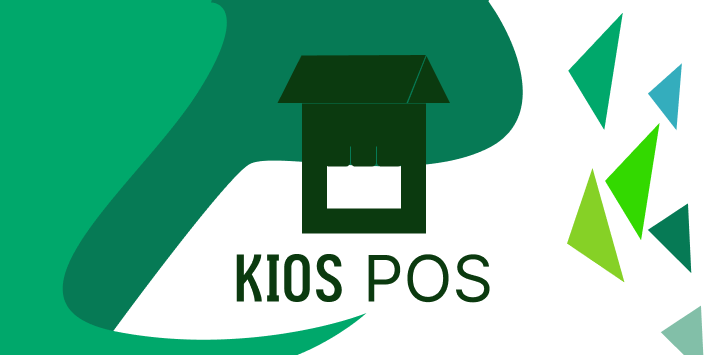
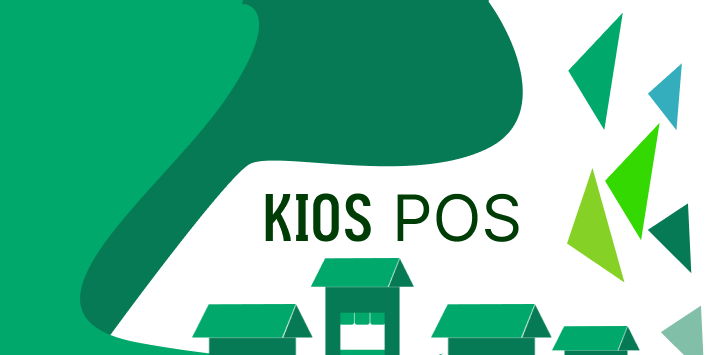
Fix 1: splash window transparan terpisah, loading persentase, dan redesain login 2 kolom

Changed region(s): [[0.1212, 0.7127, 0.8788, 1.0], [0.3636, 0.1549, 0.7273, 0.6817], [0.0606, 0.0, 0.3636, 0.8986]]

diff --git a/pos-app/src/routes/splash/+page.svelte b/pos-app/src/routes/splash/+page.svelte
@@ -1,0 +1,95 @@
+<script lang="ts">
+	import { onMount } from 'svelte';
+
+	const DURASI = 5000;
+	let persen = $state(0);
+
+	onMount(() => {
+		const mulai = Date.now();
+		const interval = setInterval(() => {
+			persen = Math.min(100, Math.round(((Date.now() - mulai) / DURASI) * 100));
+		}, 50);
+
+		const timer = setTimeout(async () => {
+			clearInterval(interval);
+			persen = 100;
+			try {
+				const { getCurrentWindow, getAllWindows } = await import('@tauri-apps/api/window');
+				const windows = await getAllWindows();
+				const main = windows.find((w) => w.label === 'main');
+				if (main) {
+					await main.show();
+					await main.setFocus();
+				}
+				await getCurrentWindow().close();
+			} catch (err) {
+				console.error('Gagal berpindah dari splash ke window utama:', err);
+			}
+		}, DURASI);
+
+		return () => {
+			clearInterval(interval);
+			clearTimeout(timer);
+		};
+	});
+</script>
+
+<div class="splash">
+	<img src="/img/splash.png" alt="Kios Sumur Yacob" />
+	<div class="splash-loading">
+		<div class="splash-track">
+			<div class="splash-bar" style="width: {persen}%"></div>
+		</div>
+		<span class="splash-percent">{persen}%</span>
+	</div>
+</div>
+
+<style>
+	:global(html body) {
+		background: transparent !important;
+	}
+
+	.splash {
+		position: fixed;
+		inset: 0;
+		display: flex;
+		flex-direction: column;
+		align-items: center;
+	}
+
+	.splash img {
+		width: 100%;
+		object-fit: contain;
+	}
+
+	.splash-loading {
+		flex: 1;
+		display: flex;
+		align-items: center;
+		justify-content: center;
+		gap: 0.5rem;
+	}
+
+	.splash-track {
+		width: 180px;
+		height: 4px;
+		border-radius: 999px;
+		background: rgba(13, 148, 87, 0.2);
+		overflow: hidden;
+	}
+
+	.splash-bar {
+		height: 100%;
+		border-radius: 999px;
+		background: #0d9457;
+		transition: width 0.1s linear;
+	}
+
+	.splash-percent {
+		min-width: 2.5em;
+		font-family: 'Inter', 'Segoe UI', system-ui, -apple-system, sans-serif;
+		font-size: 0.75rem;
+		font-variant-numeric: tabular-nums;
+		color: #0d9457;
+	}
+</style>

diff --git a/pos-app/src/routes/+page.svelte b/pos-app/src/routes/+page.svelte
@@ -53,8 +53,10 @@
 </script>
 
 <div class="login-page">
+	<div class="login-panel" style="background-image: url('/img/login-panel.png')"></div>
+
+	<div class="login-right">
 	<form class="card login-box" onsubmit={login} autocomplete="off">
-		<img class="logo" src="/img/logo-login.png" alt="Kios Sumur Yacob" />
 		<p class="subtitle">Masuk untuk mulai transaksi</p>
 
 		<label for="username">Username</label>
@@ -109,16 +111,31 @@
 
 		<button type="submit" class="primary" disabled={loading}>{loading ? 'Memeriksa...' : 'Masuk'}</button>
 	</form>
+	</div>
 </div>
 
 <style>
 	.login-page {
 		min-height: 100vh;
 		display: flex;
+	}
+
+	.login-panel {
+		flex: 1;
+		min-width: 0;
+		background-size: cover;
+		background-position: center;
+		background-repeat: no-repeat;
+	}
+
+	.login-right {
+		flex: 1;
+		min-width: 0;
+		display: flex;
 		align-items: center;
 		justify-content: center;
 		padding: 1.5rem;
-		background: linear-gradient(180deg, #eaf7f0 0%, #ffffff 60%);
+		background: #ffffff;
 	}
 
 	.login-box {
@@ -129,12 +146,6 @@
 		flex-direction: column;
 		gap: 0.4rem;
 		background: linear-gradient(160deg, #b9e8cd 0%, #eefaf3 45%, #ffffff 85%);
-	}
-
-	.logo {
-		display: block;
-		width: 140px;
-		margin: 0 auto 0.8rem auto;
 	}
 
 	.subtitle {

diff --git a/pos-app/src/routes/+layout.svelte b/pos-app/src/routes/+layout.svelte
@@ -3,13 +3,7 @@
 	import '../app.css';
 	let { children } = $props();
 
-	let showSplash = $state(true);
-
 	onMount(() => {
-		const timer = setTimeout(() => {
-			showSplash = false;
-		}, 1500);
-
 		async function toggleFullscreen(event: KeyboardEvent) {
 			if (event.key === 'Escape') {
 				event.preventDefault();
@@ -26,34 +20,9 @@
 
 		window.addEventListener('keydown', toggleFullscreen);
 		return () => {
-			clearTimeout(timer);
 			window.removeEventListener('keydown', toggleFullscreen);
 		};
 	});
 </script>
 
-{#if showSplash}
-	<div class="splash">
-		<img src="/img/splash.png" alt="Kios Sumur Yacob" />
-	</div>
-{:else}
-	{@render children()}
-{/if}
-
-<style>
-	.splash {
-		position: fixed;
-		inset: 0;
-		display: flex;
-		align-items: center;
-		justify-content: center;
-		background: linear-gradient(180deg, #eaf7f0 0%, #ffffff 60%);
-		z-index: 9999;
-	}
-
-	.splash img {
-		max-width: 60%;
-		max-height: 60%;
-		object-fit: contain;
-	}
-</style>
+{@render children()}
